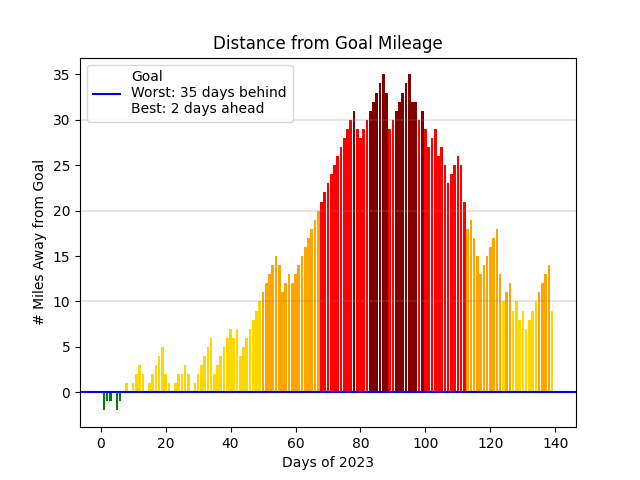
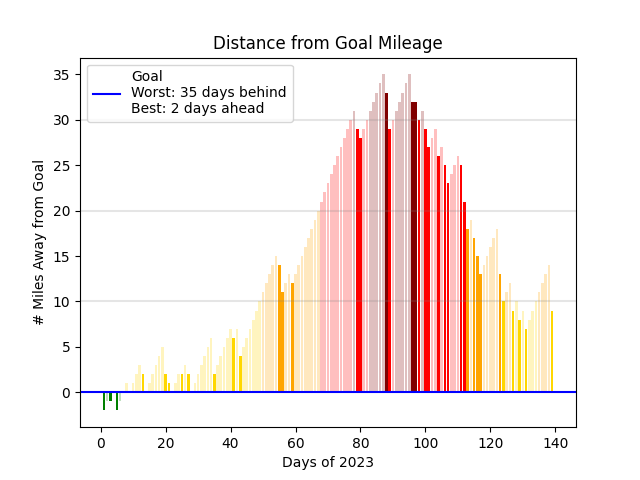
add alpha to difference plot

Changed region(s): [[0.1875, 0.1562, 0.7188, 0.8125], [0.75, 0.5, 0.875, 0.8125]]

diff --git a/progress.py b/progress.py
@@ -77,12 +77,16 @@ def colormap_difference(diff):
 
 plot_difference = True
 
+df_nonzero = df[df["miles"] != 0]
+df_zero = df[df["miles"] == 0]
+
 if plot_difference:
     diff = []
     plt.axhline(10, color='gray', alpha=0.2)
     plt.axhline(20, color='gray', alpha=0.2)
     plt.axhline(30, color='gray', alpha=0.2)
-    plt.bar(df['day'], df['difference'], color=colormap_difference(df['difference']))
+    plt.bar(df_nonzero['day'], df_nonzero['difference'], color=colormap_difference(df_nonzero['difference']))
+    plt.bar(df_zero['day'], df_zero['difference'], color=colormap_difference(df_zero['difference']), alpha=0.25)
     plt.axhline(0, color='b', label='Goal\nWorst: '+str(max(df['difference']))+' days behind\nBest: '
                                                    +str(abs(min(df['difference'])))+' days ahead')
     plt.xlabel('Days of 2023')
